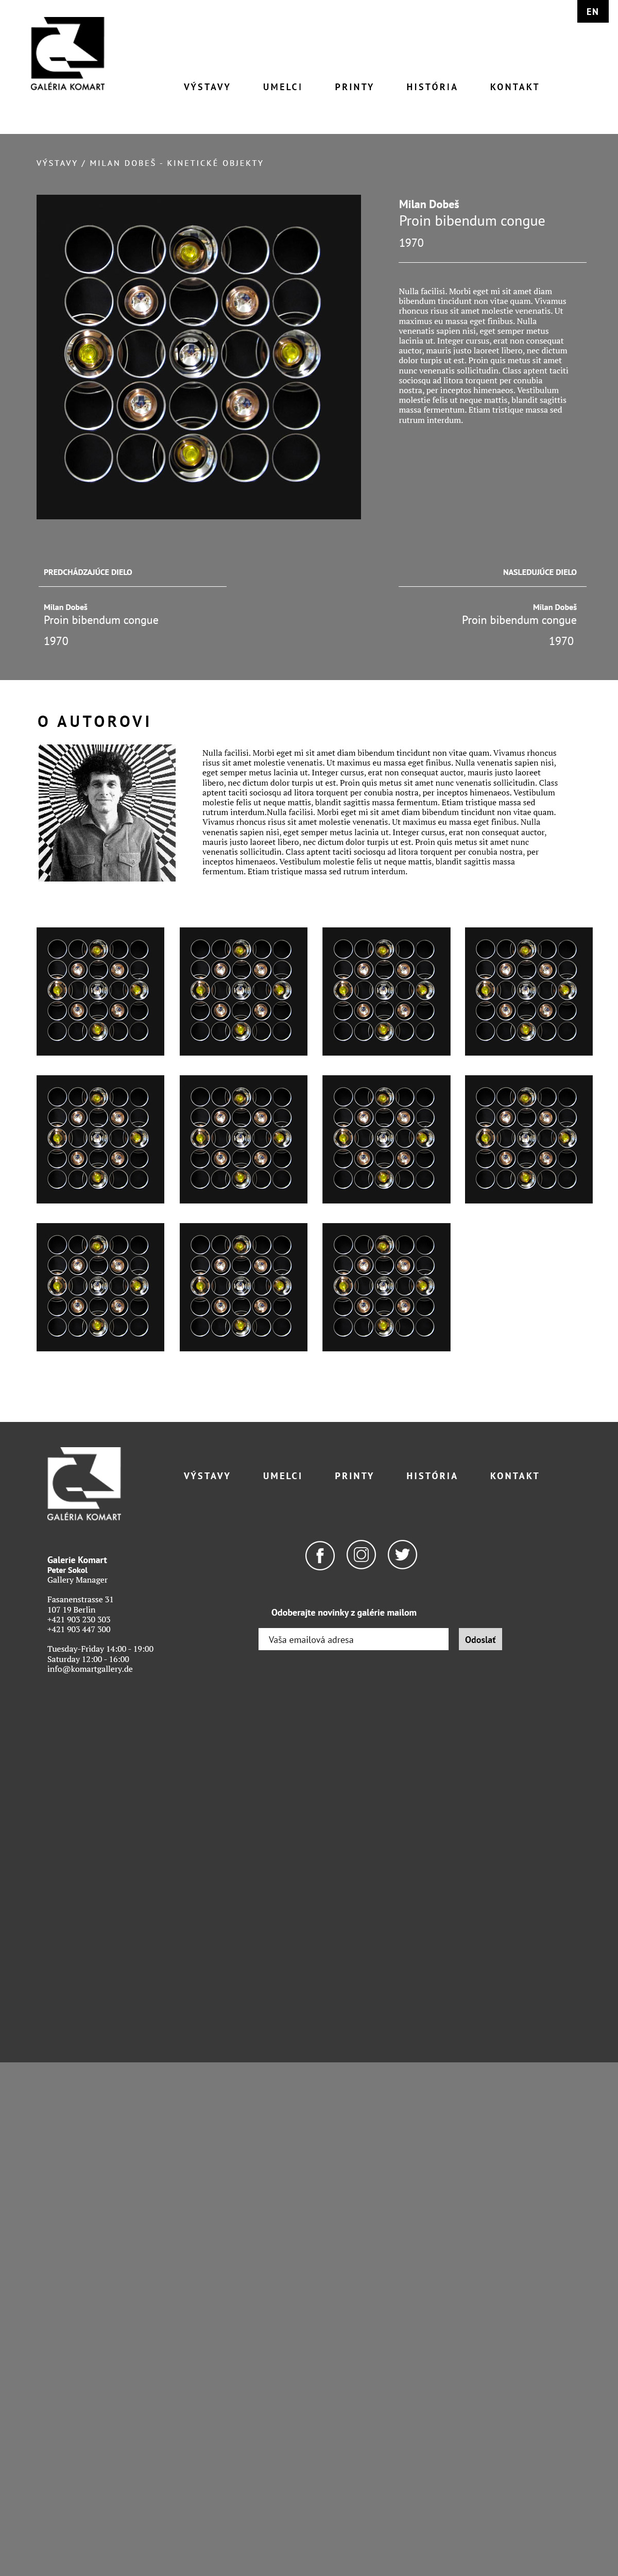
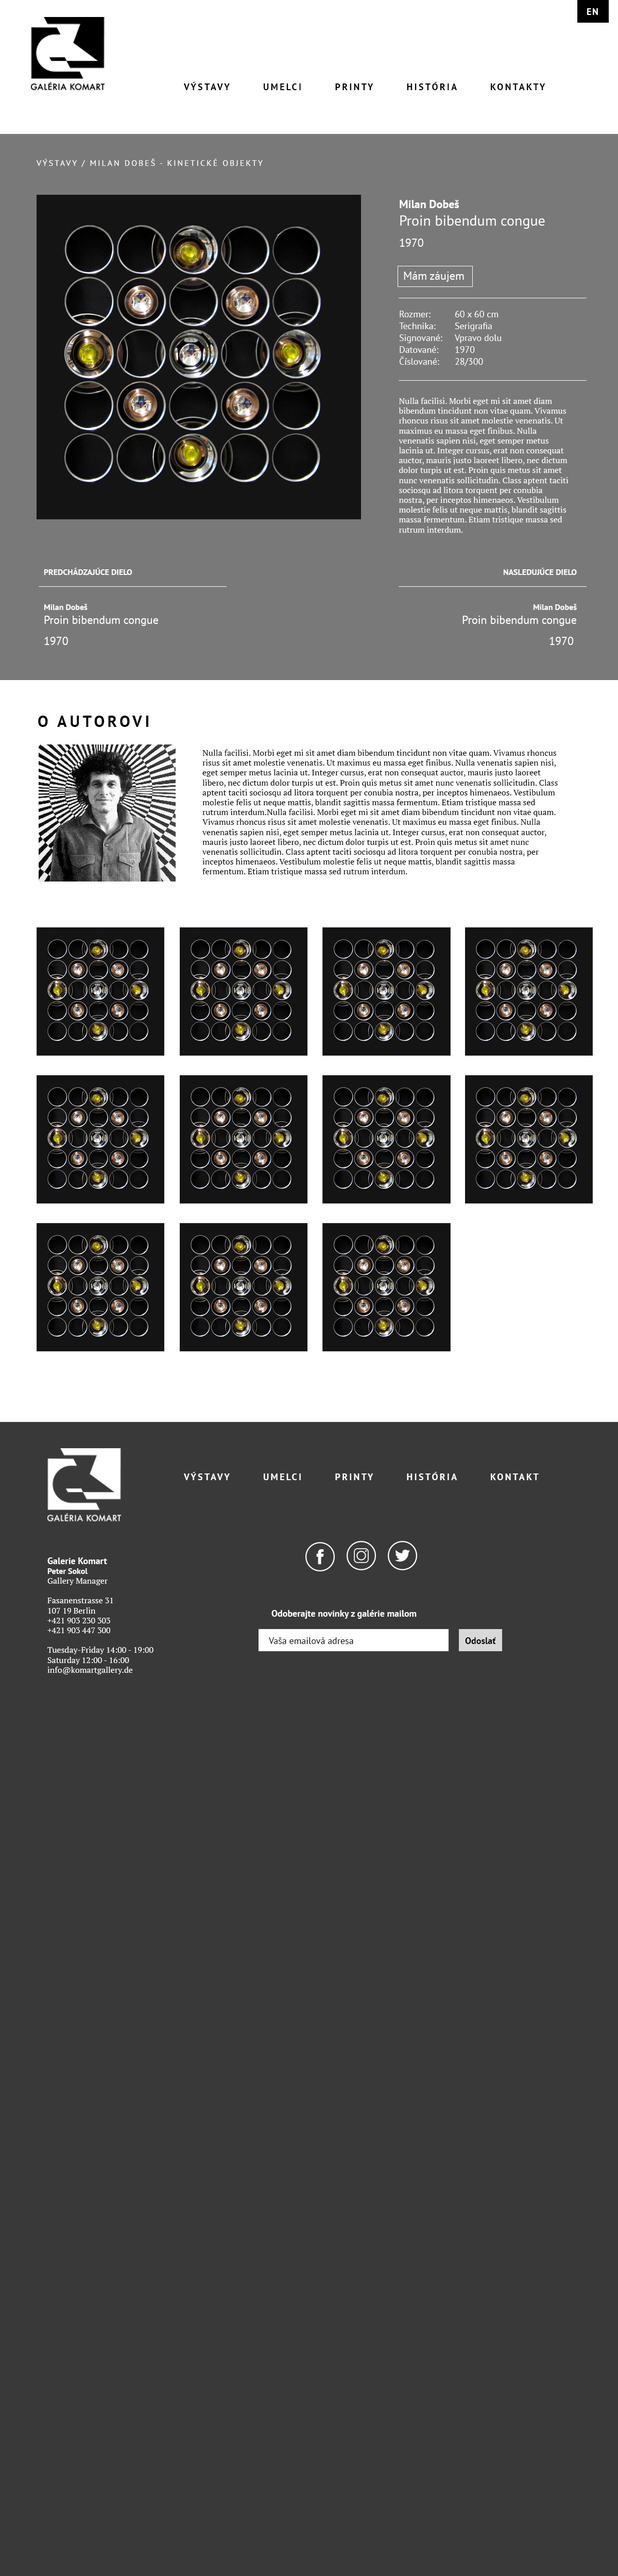
Sum

diff --git a/docs/komart/web/05.html b/docs/komart/web/05.html
@@ -10,13 +10,13 @@ body {
 	margin-left:0;
 	margin-top:0;
 	background-color:#888888;
-	background-image: url(Web_Komart_dielo.gif);
+	background-image: url(Web_Komart_kontakty.gif);
 	background-repeat: repeat-x;
 }
 </style>
 <body> 
 <div align="center"> 
-  <a href="03.html"><img src="Web_Komart_dielo.jpg" width="1200" height="5000" border="0"></a>
+  <a href="index.html"><img src="Web_Komart_kontakty.jpg" width="1200" height="5000" border="0"></a>
 </div>
 </body>
 </html>

diff --git a/docs/komart/web/04.html b/docs/komart/web/04.html
@@ -10,13 +10,13 @@ body {
 	margin-left:0;
 	margin-top:0;
 	background-color:#888888;
-	background-image: url(Web_Komart_dielo.gif);
+	background-image: url(Web_Komart_diela.gif);
 	background-repeat: repeat-x;
 }
 </style>
 <body> 
 <div align="center"> 
-  <a href="03.html"><img src="Web_Komart_dielo.jpg" width="1200" height="5000" border="0"></a>
+  <a href="05.html"><img src="Web_Komart_diela.jpg" width="1200" height="5000" border="0"></a>
 </div>
 </body>
 </html>

diff --git a/docs/komart/web/03.html b/docs/komart/web/03.html
@@ -16,7 +16,7 @@ body {
 </style>
 <body> 
 <div align="center"> 
-  <a href="03.html"><img src="Web_Komart_dielo.jpg" width="1200" height="5000" border="0"></a>
+  <a href="04.html"><img src="Web_Komart_dielo_mama_zaujem.jpg" width="1200" height="5000" border="0"></a>
 </div>
 </body>
 </html>
